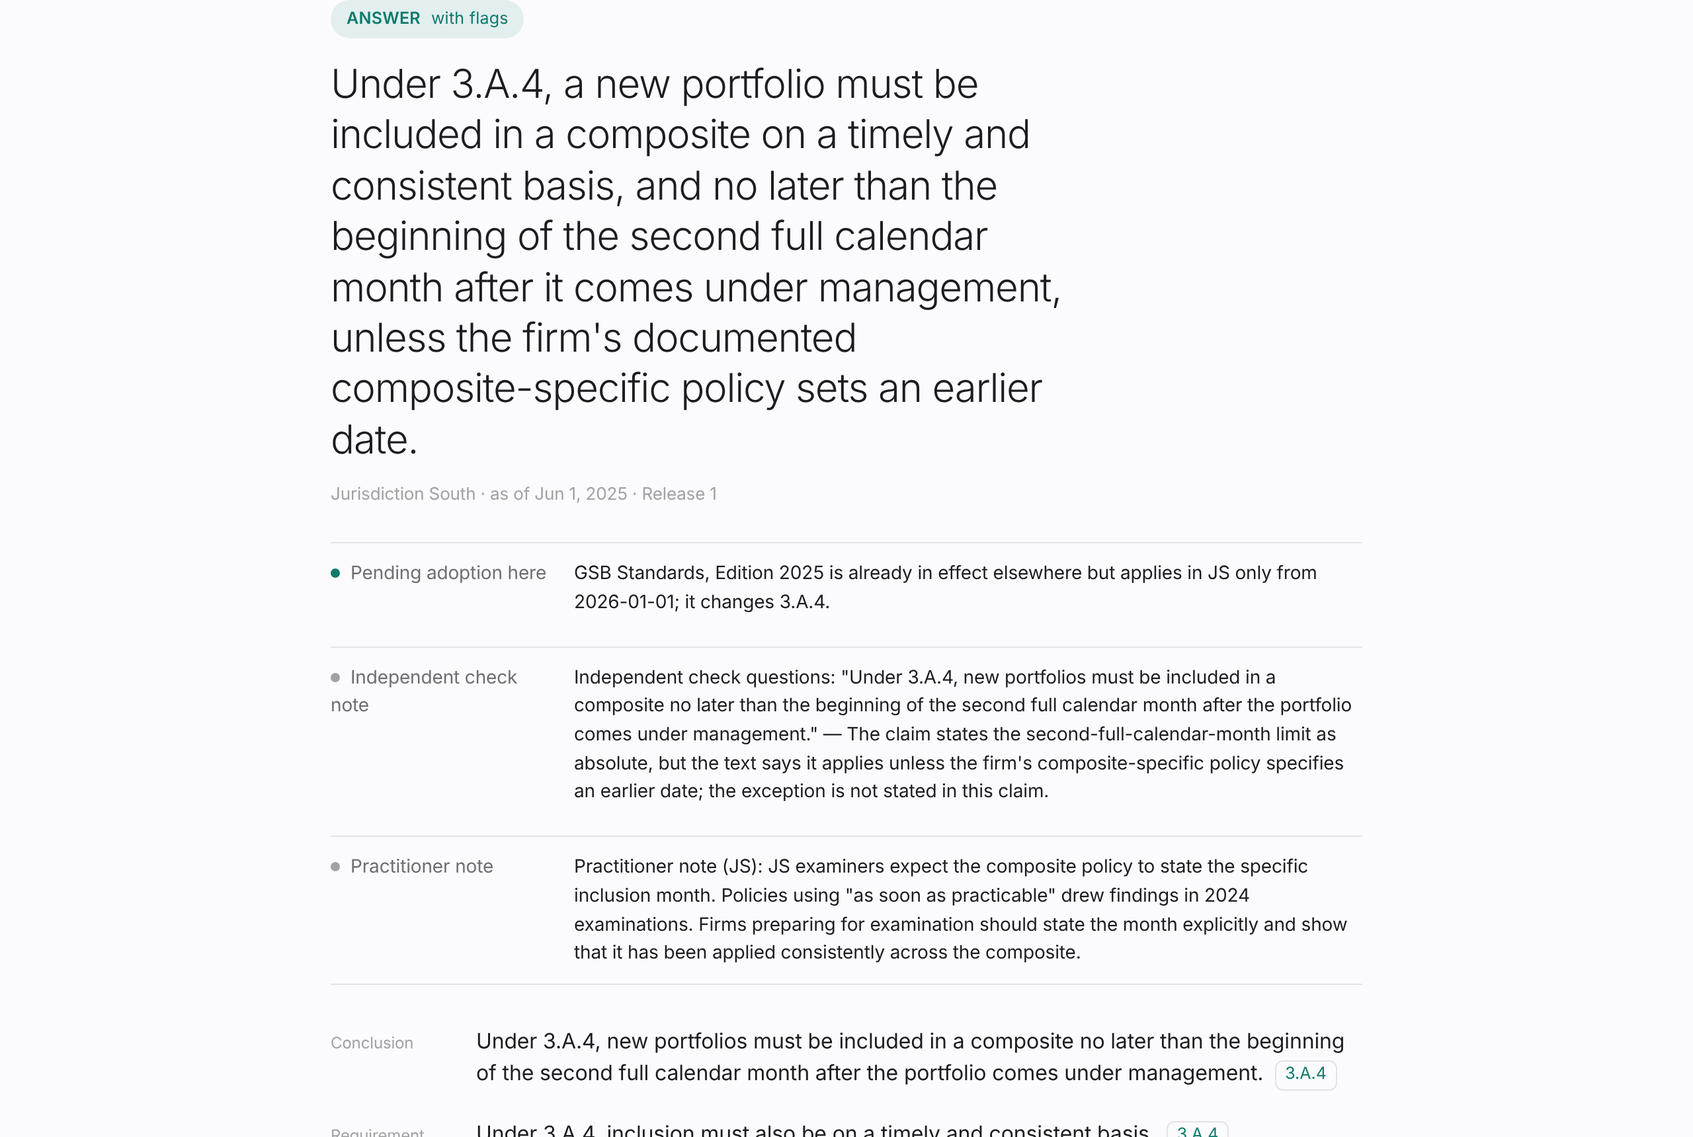
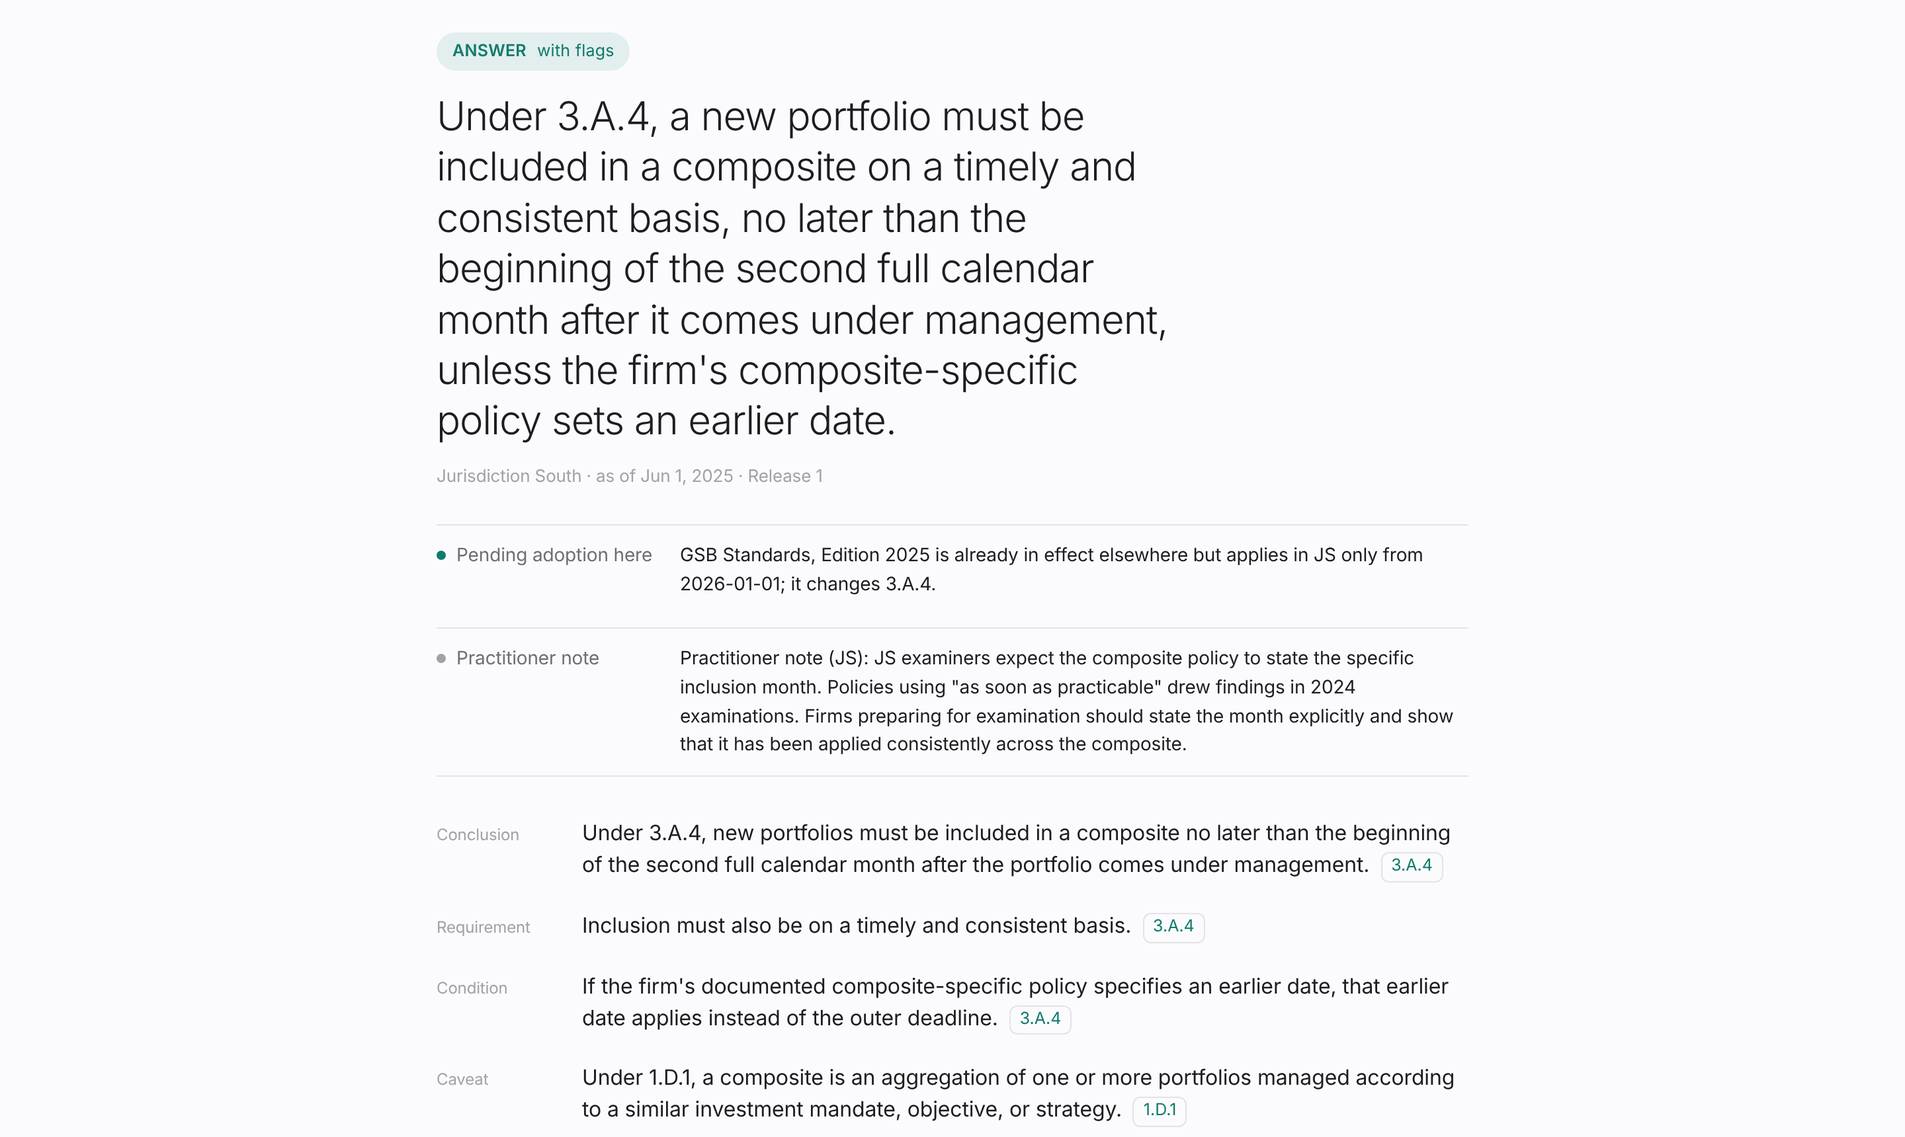
The material is reviewed asynchronously: say exactly what is recorded and what runs
Reviewers now meet the work before the author does, so the repository has to answer
"what am I looking at?" on its own. docs/04-demonstration.md draws the line precisely:
the hosted walkthrough is recorded output of a live run of this code (only the latency
is simulated); the repository runs everything, with recorded model responses or live
keys through one code path; the graph was authored to match the prose; the code was
written by an AI coding agent under a written working agreement. It also lists what a
public live deployment would need and gives an implementer the module map and the
0 -> 1 path.

The UI screenshot is retaken from the current demo (judge notes fold; the replayed G2
answer). README and CLAUDE.md link the new document; the decision log no longer names
a weekday as a deadline.

diff --git a/docs/04-demonstration.md b/docs/04-demonstration.md
@@ -1,0 +1,220 @@
+# 04 · The demonstration: what is recorded, what runs, and how it was built
+
+This document is for a reviewer who wants to know exactly what they are looking at. There
+are two things to look at — a hosted walkthrough and this repository — and they are not the
+same kind of thing. The first is a presentation of recorded output. The second is the
+system. Everything claimed about the system is checkable in the second.
+
+---
+
+## 1. The hosted walkthrough
+
+**[ericediger.com/vgl](https://ericediger.com/vgl)** is a static, keyboard-driven
+presentation in nine sections and forty-seven steps. It shows **recorded output of the real
+system** — nothing on the site calls a model or a database.
+
+Where the output came from: on 4 November 2026 the full pipeline in this repository was run
+live — `claude-opus-5-5` composing, `claude-sonnet-5-5` judging and parsing intake, OpenAI
+`text-embedding-3-small` embedding — against Release 1, then Release 2 (after approving the
+Q&A proposal), then Release 3 (after approving the amendment). The responses, impact previews,
+issued-answer states, graph and eval report were saved as JSON
+(`answers_release1.json`, `answers_release2.json`, `answers_release3.json`,
+`impact_preview_*.json`, `issued_answers_*.json`, `graph_release3.json`, `eval-report.json`).
+The site renders those files.
+
+**What is simulated on the site — and only this:**
+
+- **Latency.** The "Ask" progress bar is a 2.5-second animation. Live, a question takes
+  10–25 seconds, almost all of it two model calls (compose, judge) plus two small ones
+  (intake, choose entries); the deterministic resolve step is milliseconds.
+- **The release badge.** The bump from Release 1 → 2 → 3 on approval is scripted to the
+  moment of the click; the releases themselves, their counts and their changelogs are the
+  system's.
+
+**What is not simulated:** every verdict, every claim and its citation, every flag, every
+judge note, every impact-preview line, the issued answer's expiry date, the graph the
+subgraph views are drawn from, and every number on the evidence section. Each traces to a
+file the system wrote. The eval numbers are the same ones in
+[`docs/eval-report.md`](eval-report.md) in this repository.
+
+## 2. The repository
+
+Everything in the repository is functional. Two modes matter to a reviewer:
+
+| | `VGL_LLM_MODE=replay` (no keys) | `VGL_LLM_MODE=live` (keys in `.env`) |
+|---|---|---|
+| Command | `VGL_LLM_MODE=replay docker compose up --build` | `docker compose up --build` |
+| Resolve, verify, releases, impact preview, staleness | Real, identical in both modes — no model is involved in any of them | Same |
+| Intake · choose entries · compose · judge | Recorded responses, served from `tests/fixtures/` — the same fixtures the test suite replays | Real API calls |
+| Embeddings | Recorded (`tests/fixtures/embeddings.json`) | Real API calls |
+| The thirteen gold questions | Work, exactly as worded (the question chips) | Work |
+| Any other question, or a reworded one | HTTP 409 with a plain message, shown in the UI | Works |
+| The two proposal scenes (Release 1 → 2 → 3), the issued answer that expires, reset to Release 1 | Work | Work |
+| `pytest` (59 tests, about 2 seconds) | Default mode | `pytest tests/eval --live` |
+
+The model steps use **one code path** in both modes. `src/vgl/llm.py` is the only module that
+talks to a vendor; in `replay` it looks up the recording keyed by the full request and fails
+loudly if there is none; in `record` it refreshes the recordings. A reworded question produces
+a different request, hence a different key, hence a 409 rather than a wrong answer served from
+the wrong recording.
+
+**Capability by surface**
+
+| Capability | Hosted site | Repository, replay | Repository, live |
+|---|---|---|---|
+| See the thirteen cases answered, with claims, citations, flags and the packet | Yes (recorded) | Yes (recorded model output, live resolve/verify) | Yes |
+| Ask a new question | No | No (409) | Yes |
+| Change jurisdiction, as-of date or release on a recorded question | No | Only the recorded combinations | Yes |
+| Preview a proposal's impact, approve it, see the new release | Shown (recorded) | Yes, computed | Yes, computed |
+| Open an earlier release and see the earlier answer reproduce | Shown (recorded) | Yes | Yes |
+| See which issued client answer expires, and when | Shown (recorded) | Yes, computed | Yes, computed |
+| Compare with the naive baseline | Shown (recorded) | Yes (recorded baseline output) | Yes |
+| Run the tests and regenerate the eval report | No | Yes | Yes |
+| Read the closure SQL, the verifier rules, the schema | Linked | Yes | Yes |
+
+## 3. How it was built
+
+Two days, in this order, and the commit history shows it:
+
+1. **Spec first.** [`docs/00-corpus-spec.md`](00-corpus-spec.md) was written and committed
+   before any code: the fictional corpus, the traps, the outcome contract, the verifier rules
+   and the gold set. If code and spec disagree, the spec is fixed first.
+2. **The gold set as the behavioural specification.** [`data/gold.yaml`](../data/gold.yaml)
+   states, as data, what a correct answer to each question must and must not cite and which
+   flags it must raise. The evals assert structural properties — outcome, citations, flags,
+   gaps — never prose equality.
+3. **The deterministic core with unit tests before any model call.** `closure.py`,
+   `verify.py` and `releases.py` were written and tested (28 tests, exact expectations)
+   against the seed graph with no model anywhere. They import nothing from `llm.py`; that
+   is a rule a reviewer can check by reading the imports.
+4. **Record/replay from day one.** Every model call goes through one module and is keyed by
+   its full request, so the probabilistic stages are deterministic in tests and the whole
+   suite runs with no network.
+5. **The baseline recorded, never asserted.** `tests/eval/test_baseline.py` documents what
+   ordinary RAG does on the same questions with the same model; it does not assert that the
+   baseline fails, and the one place it gets an easy question right is reported as such.
+6. **The UI last.** One static page over the same JSON the API returns to an agent.
+
+The structured graph in `data/graph/` was **authored by hand to match the prose** in
+`data/sources/`, with provenance recorded on every edge as if produced by an extractor and
+reviewed by an editor. Extraction at scale is the largest piece of production work and was
+deliberately kept out of a proof of concept ([`03-decisions.md`](03-decisions.md), decision 9
+and "with more time").
+
+The code was written by an AI coding agent (Claude Code) working under the author's direction
+and a written working agreement, [`CLAUDE.md`](../CLAUDE.md): nothing ships that cannot be
+explained in two sentences; no real regulation anywhere; provenance on every edge;
+determinism first; commit messages that state a decision, not a diff. The architecture, the
+corpus design, the decisions in the log and the scope cuts are the author's. The first live
+run changed four things, all recorded in the decision log; the corpus itself was corrected
+once when the composer read a definition more carefully than its author had.
+
+## 4. What a public live demo would need
+
+The code needs no change beyond configuration. The work is deployment and guardrails:
+
+- **A hosted Postgres 16 with pgvector** — Neon, Supabase, RDS, or a Fly.io volume.
+- **The FastAPI container** on Fly.io, Render, Railway or Cloud Run, behind HTTPS, with the
+  two API keys as platform secrets.
+- **Spend control.** A monthly cap in both vendor consoles. Each live question is three to
+  four model calls, roughly 20–40 seconds and a few cents (estimate, at current list prices).
+- **Access control.** Per-IP rate limits and a shared passcode or SSO in front of `/api/ask`.
+- **Reset discipline.** A guard on `/api/reset` and a scheduled nightly reset to Release 1,
+  so the proposal scenes are always available to the next visitor.
+- **Logging.** Every answer is already stored with its frame, packet and verification in
+  the `answers` table; ship those rows to wherever the team reads logs.
+- **A status line** in the header showing mode (live / recorded) and release — the demo UI
+  already shows the release and a *recorded responses* tag in replay mode.
+
+Estimate: one working day to deploy, assuming an existing cloud account.
+
+## 5. For an implementer
+
+[`01-architecture.md`](01-architecture.md) is the design and the 0 → 1 path;
+[`03-decisions.md`](03-decisions.md) is why. What follows is the map.
+
+**Module map** (`src/vgl/`; every file opens with a plain-English docstring):
+
+| Module | One line |
+|---|---|
+| `contracts.py` | The typed shapes every stage hands to the next: QueryFrame, EvidencePacket, Claim, Answer, Outcome |
+| `config.py` | Every environment knob in one place; nothing else reads `os.environ` |
+| `db.py` | Open a connection, create or wipe the schema; plain SQL everywhere |
+| `schema.sql` | The data model, readable top to bottom: concepts, nodes, edges, releases, adoptions, issued answers, proposals, chunks |
+| `seed.py` | Load `data/graph`, `data/sources`, `data/proposals` into Postgres as Release 1; the same insert functions load an approved proposal |
+| `intake.py` | Question → QueryFrame (model, structured output); never supplies a date or a place |
+| `search.py` | Shortlist (full-text + pgvector, reciprocal rank fusion), then a model chooses entry concepts from titles, validated against the shortlist |
+| `closure.py` | **Deterministic.** Entry concepts + jurisdiction + as-of + release → EvidencePacket, including known gaps. Two SQL statements |
+| `compose.py` | EvidencePacket → summary and claims bound to version IDs (model); the judge lives here too |
+| `verify.py` | **Deterministic.** Rules V1–V6; removes, flags or refuses; derives flags from the packet |
+| `releases.py` | Proposals, impact preview (savepoint simulation), approve, reject, issued-answer staleness |
+| `naive.py` | The baseline: chunk → embed → top-k → answer, over the same prose with the same model |
+| `pipeline.py` | `ask()`: intake → shortlist → choose → resolve → compose → verify (+judge); two early exits (CLARIFY, REVIEW) |
+| `llm.py` | The one door to the models: live, replay, record |
+| `api.py` | FastAPI: `/api/ask`, `/api/resolve`, releases, proposals and impact, issued answers, reset, health; serves `demo/` |
+
+**Data flow.** A question with its two controls (jurisdiction, as-of date) and a release
+becomes a frame; the frame's topics produce a shortlist; a model narrows the shortlist to
+entry concepts; the resolver walks the graph from those concepts and selects the version of
+each concept in force in that place on that date within that release; the composer writes
+claims from the packet only; the verifier checks every claim against the packet and derives
+the flags; an optional judge may add a soft note; the Answer — outcome, claims, citations,
+flags, packet, verification record, release — is stored and returned. The JSON an agent
+receives from `/api/ask` is the JSON the demo page renders. There is no path to an answer
+that skips verification.
+
+**The schema in one paragraph.** `concepts` are stable identities that survive editions and
+renumbering. `nodes` are their dated versions: display reference, tier, obligation, text,
+optional machine-checkable parameters, effective date. `edges` are typed, concept-to-concept
+relationships, each carrying who asserted it, on what basis, from which passage, reviewed by
+whom. Every row records the release that created it and, if retired, the release that
+retired it — a release is a watermark, not a copy. `adoptions` give a jurisdiction its own
+effective date for a document. "In force" is never stored: it is the visible version with
+the latest jurisdiction-adjusted effective date on or before the as-of date. `issued_answers`
+pin what was told to a client to the versions it relied on; `proposals` hold bundles waiting
+for an editor; `chunks` hold the same prose for the baseline.
+
+**The eval harness.**
+
+```
+pytest                                   # 59 tests: 28 unit, 26 gold/baseline evals, 5 intake; replay; ~2 s
+pytest tests/unit                        # the deterministic core alone
+pytest tests/eval --live                 # the evals against the real models
+pytest tests/eval --live --repeat 5      # rates per case, not pass/fail
+pytest tests/eval --record               # refresh the recordings
+```
+
+The eval session writes `docs/eval-report.md` and `docs/eval-report.json`. Tests use their
+own database (`<name>_test`) and never touch the demo's.
+
+**The 0 → 1 path**, in the order it would be done:
+
+1. **Extraction through the proposal path.** A model-assisted extractor turns prose into
+   concepts, versions and edges with provenance, and its output enters the graph only as a
+   proposal — through the same impact preview and editor decision as everything else. Then
+   one real public-domain document through it.
+2. **A real corpus** with its real effective dates and adoption dates, captured with care: a
+   wrong date is a wrong answer, and the verifier cannot see it.
+3. **Editor tooling and roles**: who proposed, who approved, what changed, per release. The
+   data is already there; the view is not.
+4. **Authentication**, and tenancy on `answers` and `issued_answers` — never on the graph,
+   which belongs to the publisher.
+5. **A judge meta-evaluation**: a few dozen human labels on claim/citation pairs, so the
+   judge's own precision and recall are known before its notes are trusted in a UI.
+6. **Scale**: low millions of versions and tens of millions of edges fit one Postgres with
+   read replicas; the closure is at most four hops and indexed both ways. A graph database
+   becomes worth it when queries become whole-graph pattern matching, graph algorithms are
+   needed, or traversal latency fails despite indexing. The schema already is a property
+   graph, so the export is mechanical.
+
+## 6. What to believe, and on what basis
+
+| Claim | Basis |
+|---|---|
+| The system gives the right answer on every gold case | `pytest` → 13/13; `docs/eval-report.md` |
+| No stale citation reaches a user | The packet never offers a superseded version; V3 is defence in depth; 0 of 70 composed citations were stale |
+| Resolve and verify involve no model | `closure.py` and `verify.py` import nothing from `llm.py`; 28 unit tests run with no model |
+| Release 1 still says REVIEW after Release 2 exists | Releases are watermarks; `tests/unit/test_releases.py` |
+| The baseline fails every case that depends on when or where | G2, G7, G11a in the eval report, recorded not asserted — and it gets the rest right |
+| The site shows what the system actually said | Recorded JSON from a live run of this code on 4 November 2026; the same numbers as the committed eval report |
+| Every number here is a statement about this corpus | The corpus is fictional and small; nothing here is a claim about any real standard |

diff --git a/CLAUDE.md b/CLAUDE.md
@@ -7,8 +7,9 @@ carries the working agreement so no chat has to re-establish it.
 
 A proof of concept for a **verifiable regulatory knowledge layer**: a layer between a
 standards body's guidance and its AI systems that makes answers reliable and verifiable,
-not merely retrievable. Submission for a technical challenge; the author will present it
-for 10 minutes and then be drilled by a senior technical stakeholder.
+not merely retrievable. Submission for a technical challenge: the material is delivered to
+the panel in advance (repository, hosted walkthrough, narrated video, PDF), then the author
+presents it for 10 minutes and is drilled by a senior technical stakeholder.
 
 **Thesis.** Truth lives in a deterministic, versioned, relationship-aware layer. The LLM
 is used only for language — understanding the question and composing the answer — and
@@ -37,6 +38,7 @@ answer changes, because a definition, exception, or ruling elsewhere has changed
 | 01 Architecture + 0→1 | `docs/01-architecture.md` (+ `docs/diagrams/`) |
 | 02 Concrete demonstration | `src/`, `data/`, `tests/`, `demo/` — runnable via `docker compose up` |
 | 03 Design choices and rationale | `docs/03-decisions.md` (ADR-style; non-obvious decisions first) |
+| What is recorded vs. what runs | `docs/04-demonstration.md` (the honesty sheet: hosted site, replay, live, how it was built) |
 
 ## Stack (locked)
 
@@ -55,7 +57,7 @@ answer changes, because a definition, exception, or ruling elsewhere has changed
 CLAUDE.md
 README.md
 compose.yaml  Dockerfile  .env.example  pyproject.toml
-docs/        00-corpus-spec.md  01-architecture.md  03-decisions.md  diagrams/
+docs/        00-corpus-spec.md  01-architecture.md  03-decisions.md  04-demonstration.md  eval-report.md  diagrams/
 data/
   gold.yaml  the gold set — the specification of correct behaviour, as data
   sources/   prose documents (what the body publishes; what naive RAG chunks)
@@ -118,8 +120,14 @@ docker compose run --rm app python -m vgl.seed         # reseed to Release 1 (or
 - [x] Releases: proposals, impact preview, publish
 - [x] Demo UI
 - [x] docs 01 and 03, diagram
-- [x] Verified on the presenter's Mac with Docker (Nov 4: live G1 call end to end)
+- [x] Verified on the author's Mac with Docker (Nov 4: live G1 call end to end)
 - [x] Drill prep (kept outside the repo)
+- [x] Keyless replay path (`VGL_LLM_MODE=replay`), verified end to end on a fresh database
+- [x] Hosted walkthrough at https://ericediger.com/vgl (recorded output; 9 sections, 47 steps)
+- [x] `docs/04-demonstration.md` — what is recorded, what runs, how it was built
+- [ ] Narrated video over the walkthrough (link goes in README "Start here" when it exists)
+- [ ] PDF walkthrough, `docs/vgl-walkthrough.pdf` (8–10 pages; appendix = 04-demonstration)
+- [ ] Reviewer access: GitHub invites and/or a zip of `main`; cover email
 
 ## Things that bit once
 

diff --git a/README.md b/README.md
@@ -31,6 +31,10 @@ Ten minutes to the argument; fifteen more to run it; the documents for the rest.
    decisions, ADR-style), [`docs/eval-report.md`](docs/eval-report.md) (generated results,
    including the honest baseline), and [`docs/00-corpus-spec.md`](docs/00-corpus-spec.md)
    (the fictional corpus everything was built to).
+4. **Know what you are looking at.** [`docs/04-demonstration.md`](docs/04-demonstration.md)
+   says precisely what on the walkthrough site is recorded and what is simulated (only the
+   latency), what runs in this repository with and without keys, how it was built, and what
+   a public live deployment would need.
 
 ## Deliverables
 
@@ -41,6 +45,7 @@ Ten minutes to the argument; fifteen more to run it; the documents for the rest.
 | **03** | Design choices and rationale | [`docs/03-decisions.md`](docs/03-decisions.md), and the commit history |
 
 The specification everything was built to: [`docs/00-corpus-spec.md`](docs/00-corpus-spec.md).
+What is recorded, what runs, and how it was built: [`docs/04-demonstration.md`](docs/04-demonstration.md).
 
 ## Run it
 
@@ -108,9 +113,9 @@ writes [`docs/eval-report.md`](docs/eval-report.md). The gold set is
 4. **Jurisdiction.** The same question, a different place, a different answer, a pending
    adoption flagged, a practitioner note surfaced and labelled.
 
-The drill question the two scenes answer: *did the regulation change, or did your system
-learn something it should already have known?* Scene A, Scene B, and the release history
-to prove which.
+The question a careful reviewer asks, and the one the two scenes answer: *did the regulation
+change, or did your system learn something it should already have known?* Scene A, Scene B,
+and the release history to prove which.
 
 ## How it works, in one screen
 
@@ -142,7 +147,7 @@ questions; it is zero unflagged wrong answers, and knowing when not to answer.
 ## Layout
 
 ```
-docs/        00 spec · 01 architecture · 03 decisions · eval-report · diagrams/
+docs/        00 spec · 01 architecture · 03 decisions · 04 demonstration · eval-report · diagrams/
 data/        sources/ (prose) · graph/ (structured seed) · proposals/ · gold.yaml
 src/vgl/     contracts · db · schema.sql · seed · search · closure · intake · compose
              verify · releases · naive · llm · pipeline · api · config

diff --git a/docs/03-decisions.md b/docs/03-decisions.md
@@ -207,7 +207,7 @@ questions right; it fails every case where the right answer is not the newest te
 
 **With more time:** `--repeat N` in live mode already turns pass/fail into a rate per case;
 a composer-sensitivity matrix (Opus vs Sonnet composing) is a config switch away and was
-cut for Friday.
+cut for the submission deadline.
 
 ## 11. One door to the models, with record/replay
 
